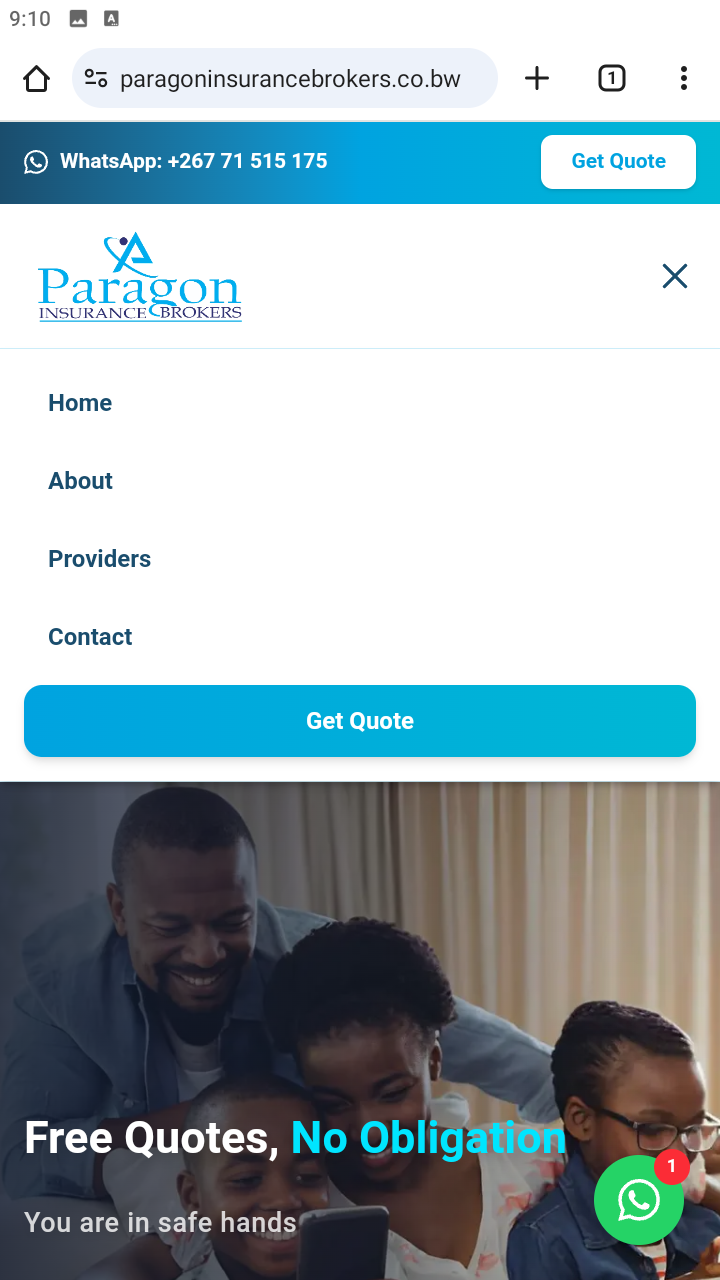
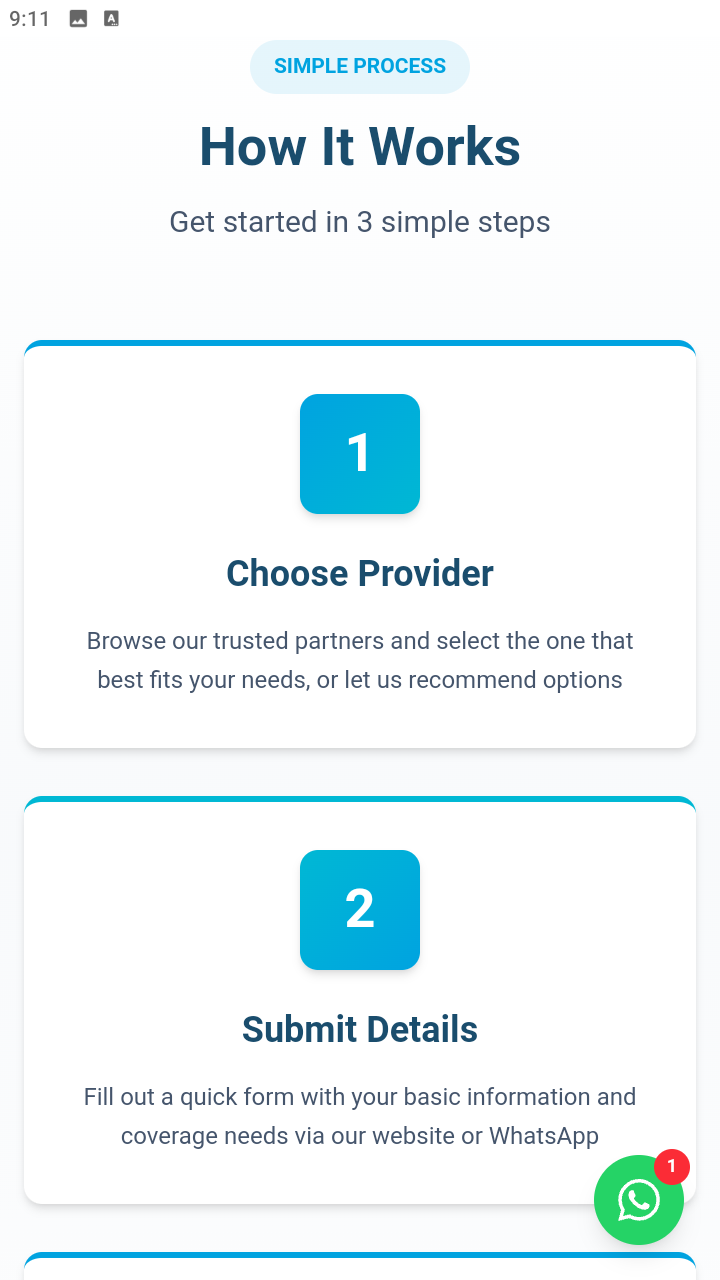
feat: update Paragon screenshots to 10 mobile only, fix lightbox header layout, add Visit Site button

diff --git a/src/components/sections/Work.tsx b/src/components/sections/Work.tsx
@@ -72,54 +72,16 @@ const PROJECTS: Project[] = [
       'Multi-page site with contact & about',
     ],
     screenshots: [
-      // Desktop (19)
-      { src: '/screenshots/paragon/desktop/paragon-1.png',  caption: 'Homepage hero',                     view: 'desktop' },
-      { src: '/screenshots/paragon/desktop/paragon-2.png',  caption: 'Get a quote CTA section',           view: 'desktop' },
-      { src: '/screenshots/paragon/desktop/paragon-3.png',  caption: 'Protect your family section',       view: 'desktop' },
-      { src: '/screenshots/paragon/desktop/paragon-4.png',  caption: 'Free guides section',               view: 'desktop' },
-      { src: '/screenshots/paragon/desktop/paragon-5.png',  caption: 'Compare leading insurers',          view: 'desktop' },
-      { src: '/screenshots/paragon/desktop/paragon-6.png',  caption: 'Insurance providers grid',          view: 'desktop' },
-      { src: '/screenshots/paragon/desktop/paragon-7.png',  caption: 'Your trusted insurance partner',    view: 'desktop' },
-      { src: '/screenshots/paragon/desktop/paragon-8.png',  caption: 'How it works',                      view: 'desktop' },
-      { src: '/screenshots/paragon/desktop/paragon-9.png',  caption: 'Ready to protect your team',        view: 'desktop' },
-      { src: '/screenshots/paragon/desktop/paragon-10.png', caption: 'Testimonials section',              view: 'desktop' },
-      { src: '/screenshots/paragon/desktop/paragon-11.png', caption: 'About Paragon',                     view: 'desktop' },
-      { src: '/screenshots/paragon/desktop/paragon-12.png', caption: 'We work for you section',           view: 'desktop' },
-      { src: '/screenshots/paragon/desktop/paragon-13.png', caption: 'Ready to get started',              view: 'desktop' },
-      { src: '/screenshots/paragon/desktop/paragon-14.png', caption: 'Chalice re-insurance partner',      view: 'desktop' },
-      { src: '/screenshots/paragon/desktop/paragon-15.png', caption: 'Get a quote form',                  view: 'desktop' },
-      { src: '/screenshots/paragon/desktop/paragon-16.png', caption: 'Contact page — map & details',      view: 'desktop' },
-      { src: '/screenshots/paragon/desktop/paragon-17.png', caption: 'Contact form',                      view: 'desktop' },
-      { src: '/screenshots/paragon/desktop/paragon-18.png', caption: 'Footer — dark',                     view: 'desktop' },
-      { src: '/screenshots/paragon/desktop/paragon-19.png', caption: 'Footer — links & info',             view: 'desktop' },
-      // Mobile (27)
-      { src: '/screenshots/paragon/mobile/paragon-1.png',   caption: 'Homepage hero — mobile',            view: 'mobile' },
-      { src: '/screenshots/paragon/mobile/paragon-2.png',   caption: 'Get a quote CTA — mobile',          view: 'mobile' },
-      { src: '/screenshots/paragon/mobile/paragon-3.png',   caption: 'Protect your family — mobile',      view: 'mobile' },
-      { src: '/screenshots/paragon/mobile/paragon-4.png',   caption: 'Free guides — mobile',              view: 'mobile' },
-      { src: '/screenshots/paragon/mobile/paragon-5.png',   caption: 'Compare insurers — mobile',         view: 'mobile' },
-      { src: '/screenshots/paragon/mobile/paragon-6.png',   caption: 'Providers grid — mobile',           view: 'mobile' },
-      { src: '/screenshots/paragon/mobile/paragon-7.png',   caption: 'Trusted partner — mobile',          view: 'mobile' },
-      { src: '/screenshots/paragon/mobile/paragon-8.png',   caption: 'How it works — mobile',             view: 'mobile' },
-      { src: '/screenshots/paragon/mobile/paragon-9.png',   caption: 'Protect your team — mobile',        view: 'mobile' },
-      { src: '/screenshots/paragon/mobile/paragon-10.png',  caption: 'Testimonials — mobile',             view: 'mobile' },
-      { src: '/screenshots/paragon/mobile/paragon-11.png',  caption: 'About Paragon — mobile',            view: 'mobile' },
-      { src: '/screenshots/paragon/mobile/paragon-12.png',  caption: 'We work for you — mobile',          view: 'mobile' },
-      { src: '/screenshots/paragon/mobile/paragon-13.png',  caption: 'Ready to get started — mobile',     view: 'mobile' },
-      { src: '/screenshots/paragon/mobile/paragon-14.png',  caption: 'Chalice partner — mobile',          view: 'mobile' },
-      { src: '/screenshots/paragon/mobile/paragon-15.png',  caption: 'Get a quote form — mobile',         view: 'mobile' },
-      { src: '/screenshots/paragon/mobile/paragon-16.png',  caption: 'Contact map — mobile',              view: 'mobile' },
-      { src: '/screenshots/paragon/mobile/paragon-17.png',  caption: 'Contact form — mobile',             view: 'mobile' },
-      { src: '/screenshots/paragon/mobile/paragon-18.png',  caption: 'About page — mobile',               view: 'mobile' },
-      { src: '/screenshots/paragon/mobile/paragon-19.png',  caption: 'Paragon logo section — mobile',     view: 'mobile' },
-      { src: '/screenshots/paragon/mobile/paragon-20.png',  caption: 'Ready to be insured — mobile',      view: 'mobile' },
-      { src: '/screenshots/paragon/mobile/paragon-21.png',  caption: 'Nav menu open — mobile',            view: 'mobile' },
-      { src: '/screenshots/paragon/mobile/paragon-22.png',  caption: 'Nav menu links — mobile',           view: 'mobile' },
-      { src: '/screenshots/paragon/mobile/paragon-23.png',  caption: 'Contact us — mobile',               view: 'mobile' },
-      { src: '/screenshots/paragon/mobile/paragon-24.png',  caption: 'Quote form step 2 — mobile',        view: 'mobile' },
-      { src: '/screenshots/paragon/mobile/paragon-25.png',  caption: 'Map view — mobile',                 view: 'mobile' },
-      { src: '/screenshots/paragon/mobile/paragon-26.png',  caption: 'Footer links — mobile',             view: 'mobile' },
-      { src: '/screenshots/paragon/mobile/paragon-27.png',  caption: 'Footer bottom — mobile',            view: 'mobile' },
+      { src: '/screenshots/paragon/mobile/paragon-1.png',  caption: 'Homepage hero',              view: 'mobile' },
+      { src: '/screenshots/paragon/mobile/paragon-2.png',  caption: 'Get your quote in 1 hour',   view: 'mobile' },
+      { src: '/screenshots/paragon/mobile/paragon-3.png',  caption: 'Compare leading insurers',   view: 'mobile' },
+      { src: '/screenshots/paragon/mobile/paragon-4.png',  caption: 'Hollard Life & Bona Life',   view: 'mobile' },
+      { src: '/screenshots/paragon/mobile/paragon-5.png',  caption: 'How it works — steps 1 & 2', view: 'mobile' },
+      { src: '/screenshots/paragon/mobile/paragon-6.png',  caption: 'Step 3 & CTA section',       view: 'mobile' },
+      { src: '/screenshots/paragon/mobile/paragon-7.png',  caption: 'About Paragon',              view: 'mobile' },
+      { src: '/screenshots/paragon/mobile/paragon-8.png',  caption: 'We work for you',            view: 'mobile' },
+      { src: '/screenshots/paragon/mobile/paragon-9.png',  caption: 'Contact us',                 view: 'mobile' },
+      { src: '/screenshots/paragon/mobile/paragon-10.png', caption: 'Office location — map',      view: 'mobile' },
     ],
   },
   {
@@ -288,12 +250,12 @@ function Lightbox({ project, startIndex, onClose }: { project: Project; startInd
         }}
       >
         <div style={{ display: 'flex', alignItems: 'center', gap: 12 }}>
-          <div>
+          <div style={{ display: 'flex', alignItems: 'center', gap: 10 }}>
             {project.slug === 'paragon' ? (
               <img
                 src="/images/paragon-logo.jpeg"
                 alt="Paragon Insurance Brokers"
-                style={{ height: 32, width: 'auto', objectFit: 'contain', display: 'block', borderRadius: 3 }}
+                style={{ height: 28, width: 'auto', objectFit: 'contain', display: 'block', borderRadius: 3 }}
               />
             ) : (
               <p style={{ fontFamily: 'serif', fontWeight: 700, fontSize: 14, color: '#F6F1EA', margin: 0 }}>{project.title}</p>
@@ -318,12 +280,31 @@ function Lightbox({ project, startIndex, onClose }: { project: Project; startInd
             </div>
           )}
         </div>
-        <button
-          type="button" onClick={onClose}
-          style={{ width: 36, height: 36, borderRadius: 6, background: 'rgba(246,241,234,0.08)', border: '1px solid rgba(246,241,234,0.15)', color: '#F6F1EA', display: 'flex', alignItems: 'center', justifyContent: 'center', cursor: 'pointer' }}
-        >
-          <X size={16} />
-        </button>
+        <div style={{ display: 'flex', alignItems: 'center', gap: 8 }}>
+          {project.url && project.url !== '#' && (
+            <a
+              href={project.url}
+              target="_blank"
+              rel="noopener noreferrer"
+              onClick={e => e.stopPropagation()}
+              style={{
+                display: 'flex', alignItems: 'center', gap: 6,
+                padding: '0 14px', height: 36, borderRadius: 6,
+                background: 'rgba(246,241,234,0.08)', border: '1px solid rgba(246,241,234,0.15)',
+                color: '#F6F1EA', fontSize: 12, fontWeight: 600, textDecoration: 'none',
+                cursor: 'pointer', whiteSpace: 'nowrap',
+              }}
+            >
+              Visit Site <ExternalLink size={12} />
+            </a>
+          )}
+          <button
+            type="button" onClick={onClose}
+            style={{ width: 36, height: 36, borderRadius: 6, background: 'rgba(246,241,234,0.08)', border: '1px solid rgba(246,241,234,0.15)', color: '#F6F1EA', display: 'flex', alignItems: 'center', justifyContent: 'center', cursor: 'pointer' }}
+          >
+            <X size={16} />
+          </button>
+        </div>
       </div>
 
       {/* 
